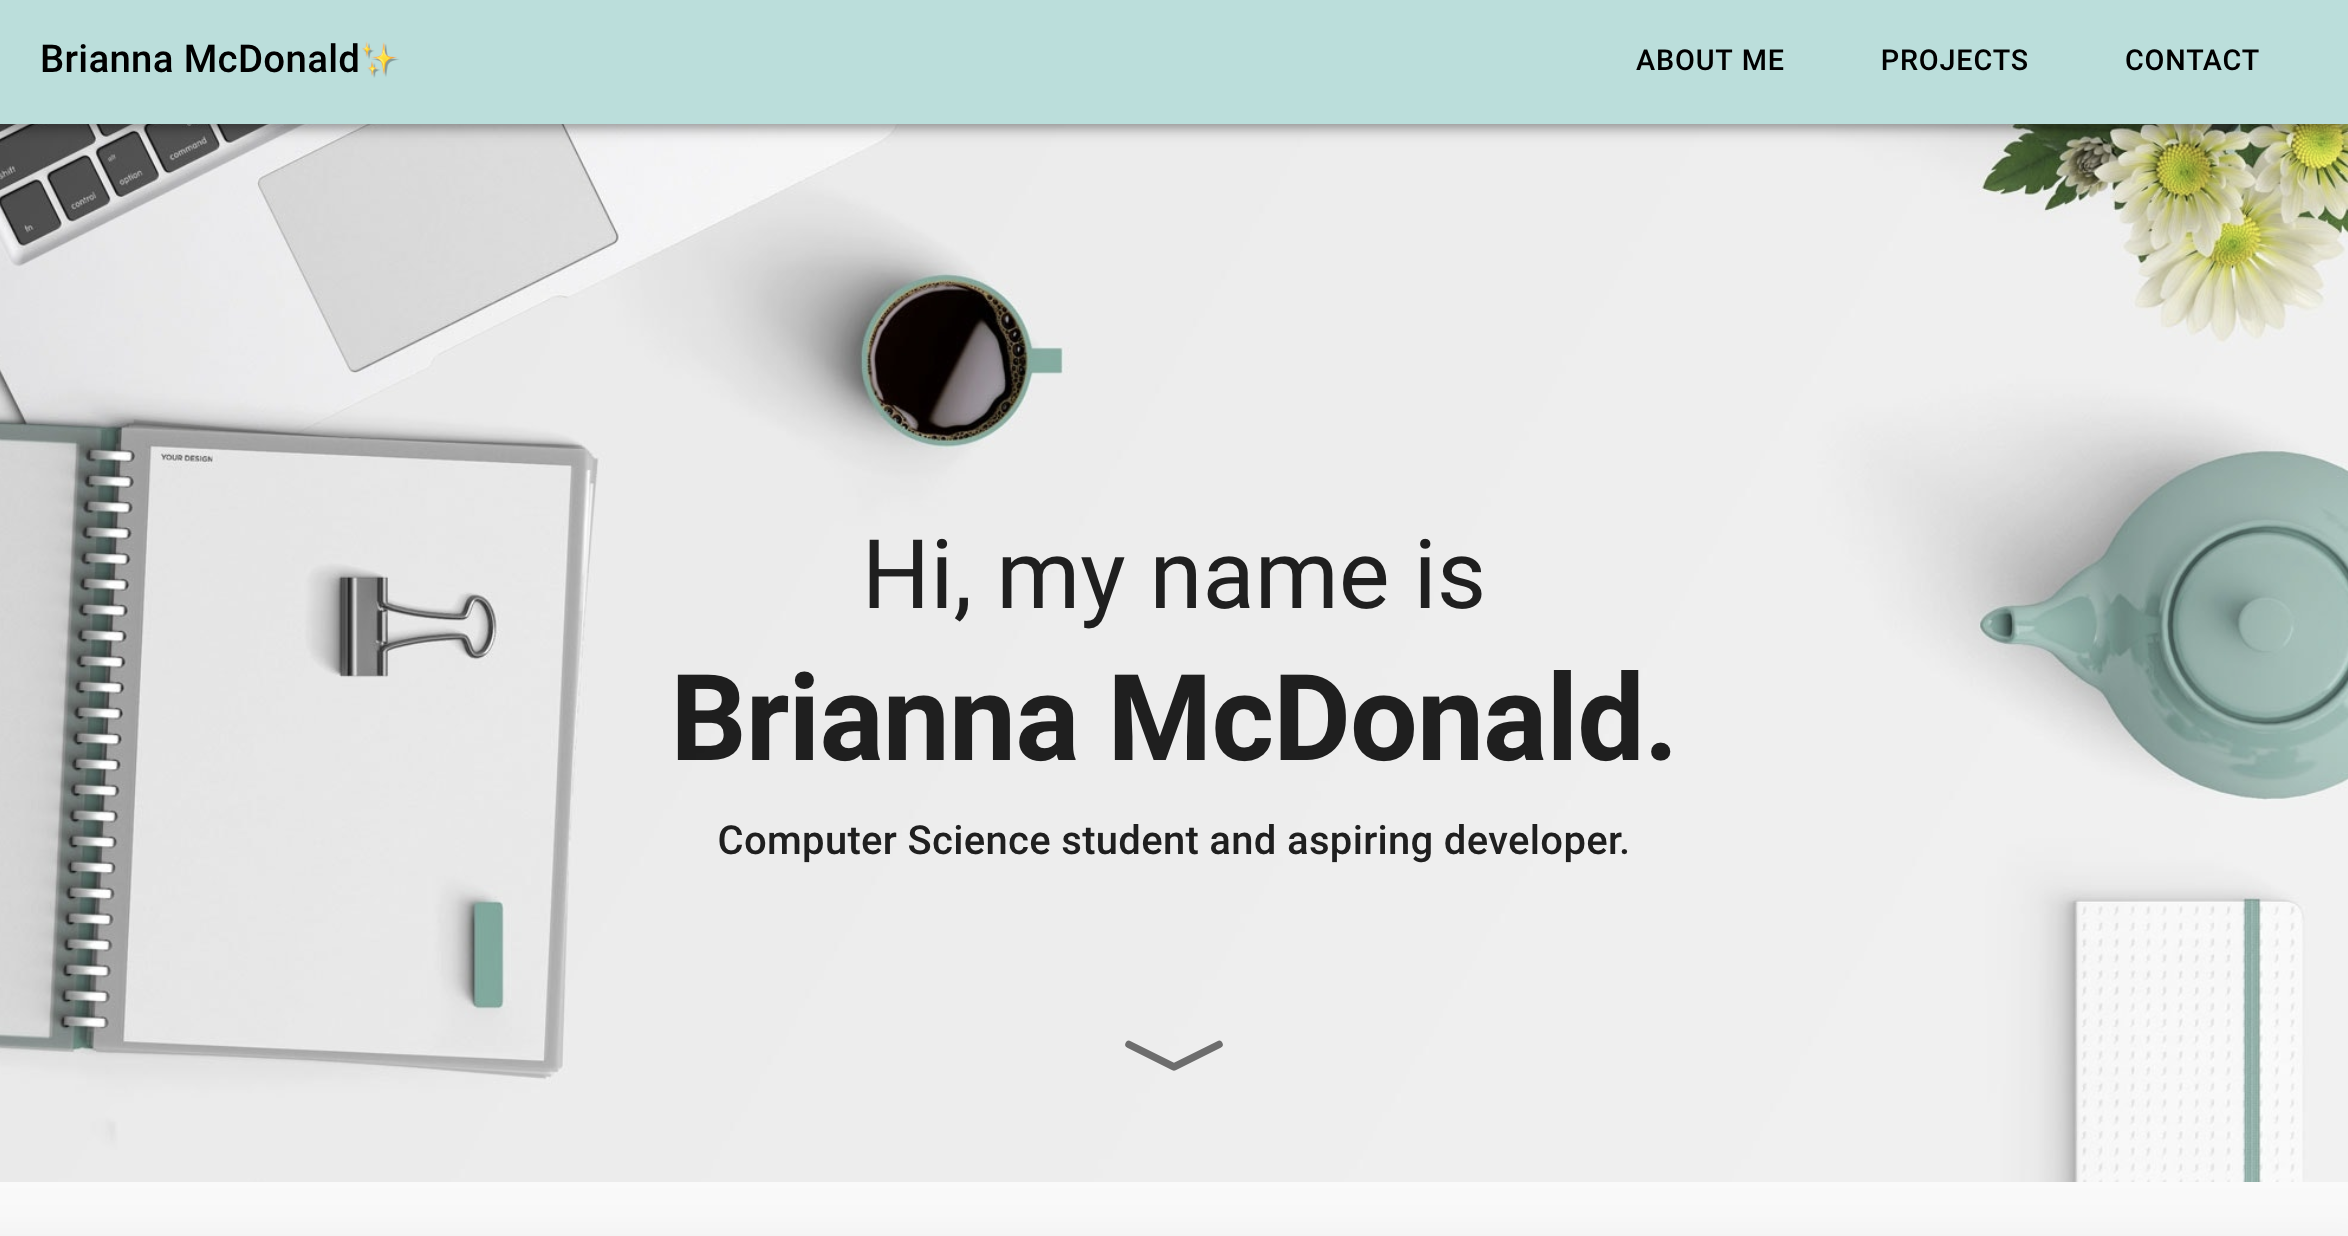
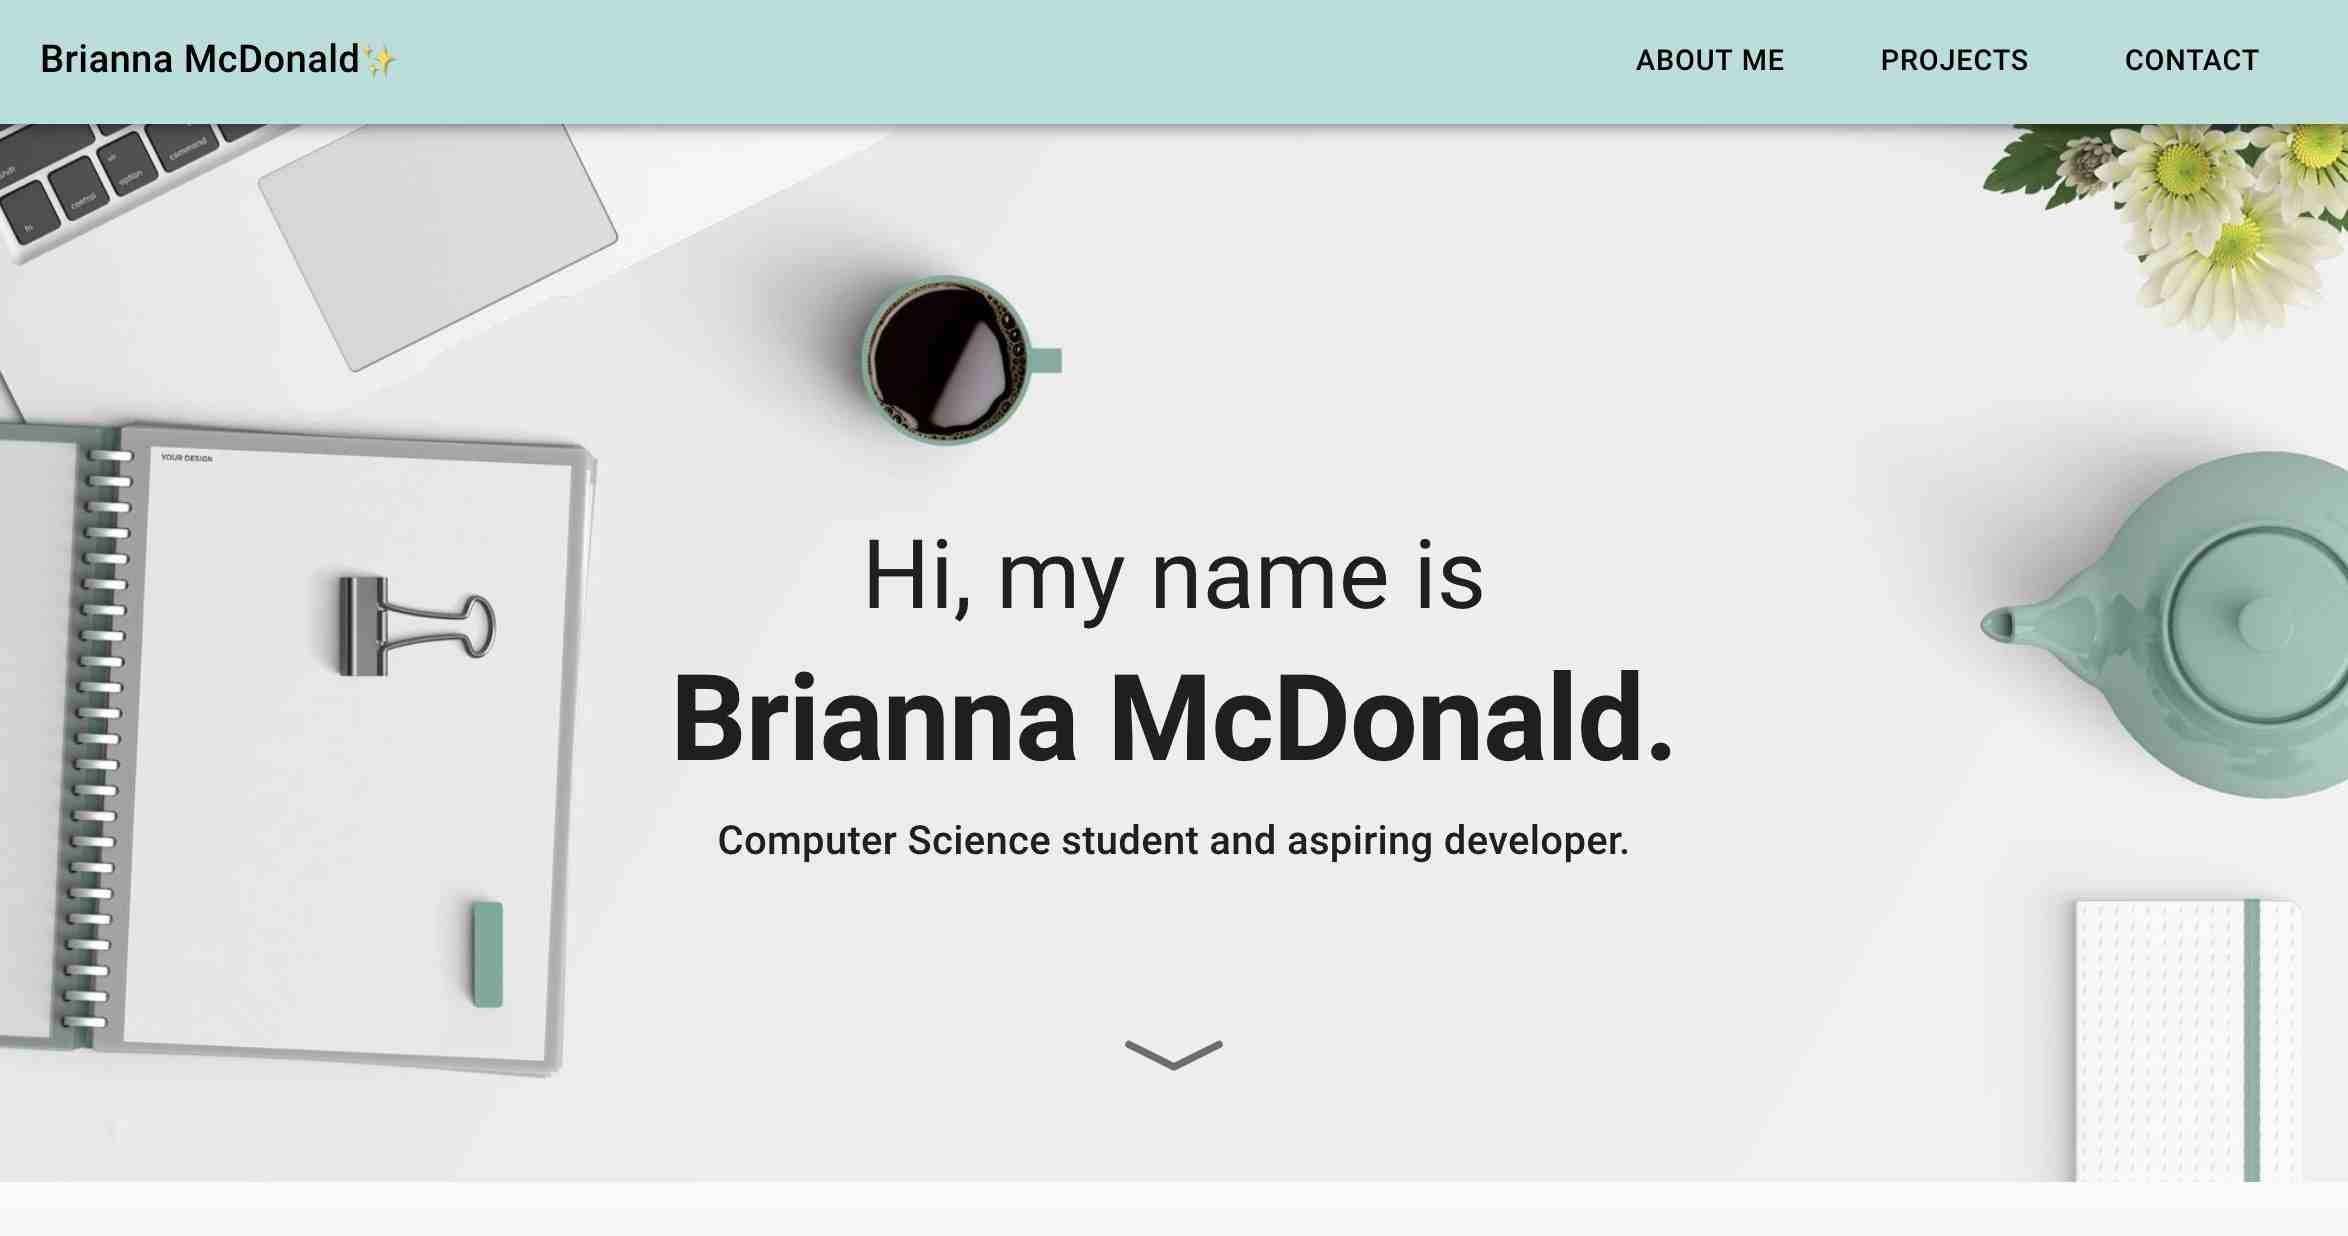
optimized images

diff --git a/src/components/Pages/FrontPage.js b/src/components/Pages/FrontPage.js
@@ -7,7 +7,7 @@ import {
   Hidden,
   makeStyles,
 } from "@material-ui/core";
-import backgroundImage from "./../../images/background.png";
+import backgroundImage from "./../../images/background.jpg";
 import backgroundImage2 from "./../../images/background2.jpg";
 import theme from "../../theme/theme";
 import KeyboardArrowUpIcon from "@material-ui/icons/KeyboardArrowUp";
